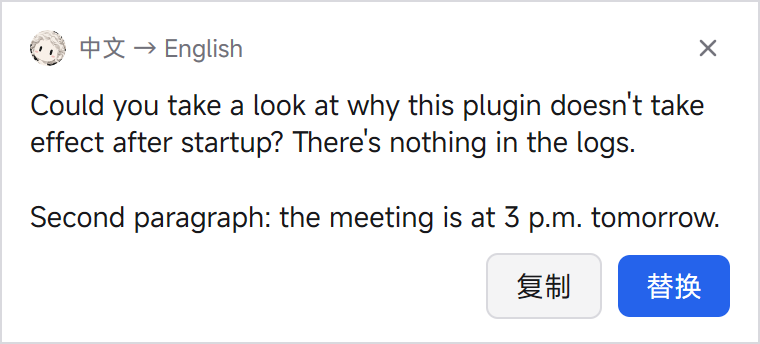
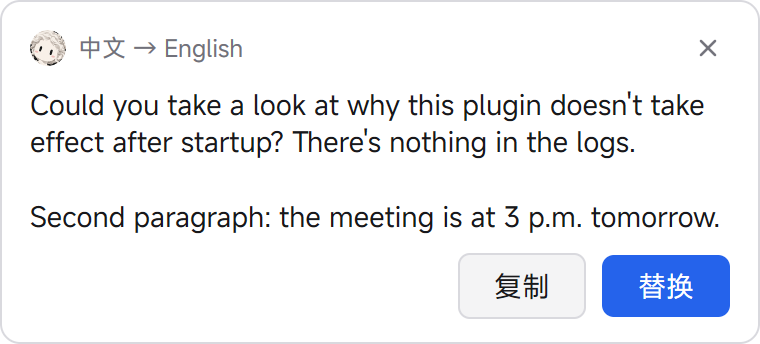
Release 2.2.0: tag-triggered release workflow, version bump, README and screenshots

diff --git a/README.md b/README.md
@@ -34,6 +34,7 @@ I write a lot of prompts in Chinese and send them in English. Copy, open a trans
 - **Only in input boxes.** UI Automation tells an editable field from page text, so reading a web page doesn't scatter buttons around. Double-clicking an empty box doesn't trigger it either.
 - **Three click modes.** Show a loading card, show the card only when the result arrives, or replace directly. In the quiet modes the button turns into a spinner; errors always show a card.
 - **Never steals focus.** Floating windows are non-activating, so your selection stays put. Your clipboard is saved and restored afterwards.
+- **Streams as it translates.** The card fills in while the model is still writing. If the connection drops halfway, you keep the part that arrived (marked as incomplete).
 - **Safe in terminals.** In Windows Terminal it sends *no* keystrokes (a stray `Ctrl+C` would kill your running program) and reads the selection through UI Automation. The card shows Copy only.
 - **Model-aware prompts.** Dedicated formats for translation models such as Tencent **Hy-MT2** and bilibili **Index-Translate**, and a generic system prompt for everything else (DeepSeek, GPT, Qwen…).
 - **20 target languages**, extra instructions and glossary, proxy, per-app exclusions, start at login.
@@ -64,7 +65,7 @@ I write a lot of prompts in Chinese and send them in English. Copy, open a trans
 
 Download `Mami Setup x.y.z amd64.exe` (installer) or `Mami.exe` (portable) from [Releases](https://github.com/margbug01/mami/releases/latest). Windows 10/11, x64.
 
-On first launch the settings window opens. Out of the box it points at bilibili's **free** Index-Translate-35B endpoint (no key needed) so you can try it immediately. That free endpoint gets overloaded at peak hours and may return 504.
+On first launch the settings window opens on the API page. Pick a **Provider** (bilibili free, Tencent TokenHub, OpenRouter, DeepSeek, or Custom) and it fills in the endpoint and model; press **Test connection** to check it before saving. Until you change it, Mami uses bilibili's **free** Index-Translate-35B endpoint (no key needed), which gets overloaded at peak hours and may return 504.
 
 ## Recommended backends
 
@@ -100,7 +101,7 @@ Direction is automatic. Text containing Chinese goes to your **Chinese to** lang
 
 Settings has five pages: **API**, **Translation**, **Shortcuts**, **Selection button**, and **General** (interface language, theme, start at login). Language and theme changes preview live and apply when you press Save.
 
-Config lives in `%AppData%\Mami\config.json`, logs in `%AppData%\Mami\logs\mami.log`. Your API key stays in that file and is only sent to the endpoint you configured.
+Config lives in `%AppData%\Mami\config.json`, logs in `%AppData%\Mami\logs\mami.log`. Your API key is stored there encrypted with Windows DPAPI (only your Windows account on this PC can decrypt it; keys saved by older versions are encrypted on the next start) and is only sent to the endpoint you configured.
 
 ## Known limitations
 
@@ -108,7 +109,7 @@ Config lives in `%AppData%\Mami\config.json`, logs in `%AppData%\Mami\logs\mami.
 - Apps that don't support `Ctrl+C` (games, remote desktop) can't be read. Elevated apps need Mami running elevated too.
 - In terminals there is no in-place replace, because pasting doesn't remove the selected text.
 - Only tested on Windows 11 at 125% scaling, single monitor.
-- The interface translations for Korean, Spanish, French, German and Russian are machine-written and not yet reviewed by native speakers. Corrections are welcome.
+- The interface translations other than Chinese and English were checked for meaning, consistent terms and Windows wording, but not by native speakers. Corrections are welcome.
 
 ## Build
 
@@ -118,6 +119,8 @@ Requires Go 1.27.1+ (`GOTOOLCHAIN=auto` downloads it).
 go test ./...
 go tool mygo build      # → build/windows-amd64/Mami.exe + NSIS installer
 ```
+
+Pushing a `v*` tag runs `.github/workflows/release.yml`: it tests, builds and publishes the installer and portable exe to that release. The tag must match `version` in `mygo.json`, or the build fails.
 
 `Mami.exe -demo` draws the button and a sample card for a quick UI check. The screenshots in `docs/` are rendered off-screen: `MAMI_DOCS=$PWD/docs go test ./internal/app -run TestSnapDocs`.
 
@@ -133,7 +136,8 @@ go tool mygo build      # → build/windows-amd64/Mami.exe + NSIS installer
 | `hook.go` | Low-level mouse and keyboard hooks on a dedicated OS thread |
 | `uia.go` | UI Automation via raw COM vtables: is the focus editable, where is the selection, terminal selection text |
 | `worker.go` / `clipboard.go` | Message-only window that owns the clipboard and sends `Ctrl+C` / `Ctrl+V` |
-| `translate.go` / `config.go` | API requests, per-model prompt formats, config |
+| `translate.go` / `config.go` | Streaming API requests, per-model prompt formats, config |
+| `dpapi.go` | Encrypts the API key in the config with Windows DPAPI |
 
 MyGo handles the window, tray, global shortcuts, single instance and auto-start. The global hook, cross-process selection, and non-activating floating windows are plain Win32 via `syscall` — no cgo.
 

diff --git a/README_zh.md b/README_zh.md
@@ -33,6 +33,7 @@
 - **`Alt+T` 原地替换。** 没选中文字时，先全选整个输入框，翻译完再贴回去。
 - **只在输入框里弹。** 用 UI Automation 区分输入框和网页正文，看网页时不会到处冒按钮；双击空输入框也不会触发。
 - **三种点击后的显示方式。** 先弹「翻译中」卡片、出结果再弹卡片、或者直接替换。后两种模式下按钮会变成转圈，出错时一定会弹卡片。
+- **边翻边显示。** 模型还在写，卡片里就先出字；网络中途断了，已经收到的那一半会留着（标明不完整）。
 - **不抢焦点。** 浮窗是不激活窗口，选区不会丢；翻译完会还原你的剪贴板。
 - **终端里也安全。** 在 Windows Terminal 里一个键都不发（多发一个 `Ctrl+C` 就会打断你正在跑的程序），改用 UI Automation 读选区，卡片只给「复制」。
 - **按模型拼提示词。** 腾讯 **Hy-MT2**、B 站 **Index-Translate** 这类翻译模型有专用格式，其他模型（DeepSeek、GPT、Qwen…）用通用系统提示词。
@@ -64,7 +65,7 @@
 
 到 [Releases](https://github.com/margbug01/mami/releases/latest) 下载 `Mami Setup x.y.z amd64.exe`（安装包）或 `Mami.exe`（绿色版）。Windows 10/11，x64。
 
-第一次启动会打开设置窗口。默认指向 B 站**免费**的 Index-Translate-35B 接口（不用 Key），装好就能试。这个免费接口高峰期会过载，可能返回 504。
+第一次启动会打开设置窗口的「接口」页。在「服务商」里选一家（B 站免费、腾讯 TokenHub、OpenRouter、DeepSeek 或自定义），接口地址和模型会自动填好，点「测试连接」确认能用再保存。没改之前用的是 B 站**免费**的 Index-Translate-35B 接口（不用 Key），高峰期会过载，可能返回 504。
 
 ## 推荐的接口
 
@@ -100,7 +101,7 @@
 
 设置分五页：**接口**、**翻译**、**快捷键**、**划词按钮**，以及**通用**（界面语言、主题、开机自启）。语言和主题改了立刻预览，点保存才生效。
 
-配置在 `%AppData%\Mami\config.json`，日志在 `%AppData%\Mami\logs\mami.log`。API Key 只存在这个文件里，只发给你填的接口。
+配置在 `%AppData%\Mami\config.json`，日志在 `%AppData%\Mami\logs\mami.log`。API Key 用 Windows DPAPI 加密后存在这个文件里（只有这台电脑上你的 Windows 账户解得开；旧版本存的明文 key 下次启动时自动加密），只发给你填的接口。
 
 ## 已知限制
 
@@ -108,7 +109,7 @@
 - 不支持 `Ctrl+C` 的地方（游戏、远程桌面）取不到字；管理员权限运行的程序，Mami 也得用管理员权限运行。
 - 终端里不能原地替换：粘贴不会删掉选中的字。
 - 只在 Windows 11、125% 缩放、单显示器上测过。
-- 韩语、西班牙语、法语、德语、俄语的界面翻译是机器写的，还没有母语者审过，欢迎指正。
+- 中英文以外的界面翻译逐条核对过意思、术语统一和 Windows 的叫法，但还没有母语者审过，欢迎指正。
 
 ## 构建
 
@@ -118,6 +119,8 @@
 go test ./...
 go tool mygo build      # → build/windows-amd64/Mami.exe + NSIS 安装包
 ```
+
+推一个 `v*` 标签会跑 `.github/workflows/release.yml`：测试、构建，把安装包和绿色版传到这个 Release。标签必须和 `mygo.json` 里的 `version` 一致，否则直接失败。
 
 `Mami.exe -demo` 会画出按钮和一张示例卡片，用来看界面。`docs/` 里的截图是离屏渲染出来的：`MAMI_DOCS=$PWD/docs go test ./internal/app -run TestSnapDocs`。
 
@@ -133,7 +136,8 @@ go tool mygo build      # → build/windows-amd64/Mami.exe + NSIS 安装包
 | `hook.go` | 低级鼠标 + 键盘钩子，单独一条 OS 线程 |
 | `uia.go` | 原生 COM 调 UI Automation：焦点是不是输入框、选区在哪、终端选区文字 |
 | `worker.go` / `clipboard.go` | 消息窗口线程：持有剪贴板、模拟 `Ctrl+C` / `Ctrl+V` |
-| `translate.go` / `config.go` | 接口请求、按模型拼提示词、配置读写 |
+| `translate.go` / `config.go` | 流式接口请求、按模型拼提示词、配置读写 |
+| `dpapi.go` | 用 Windows DPAPI 加密配置里的 API Key |
 
 窗口、托盘、全局快捷键、单实例、开机自启交给 MyGo；全局钩子、跨进程读选区、不抢焦点的浮窗是纯 Win32（`syscall`），不用 cgo。
 
